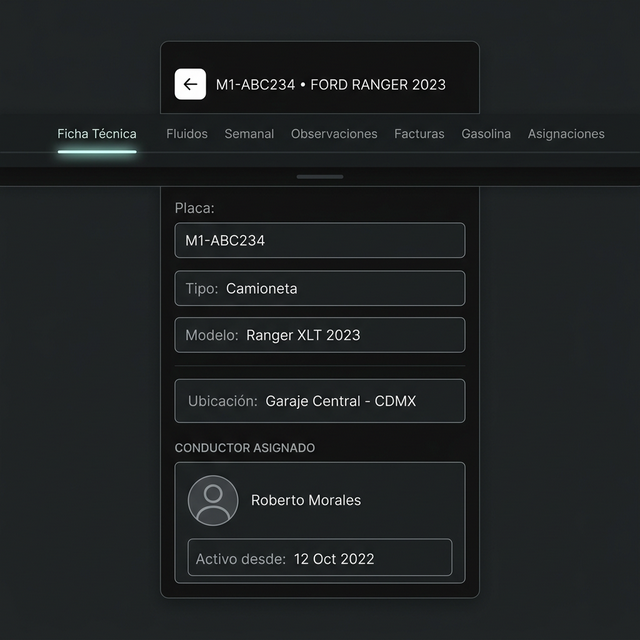
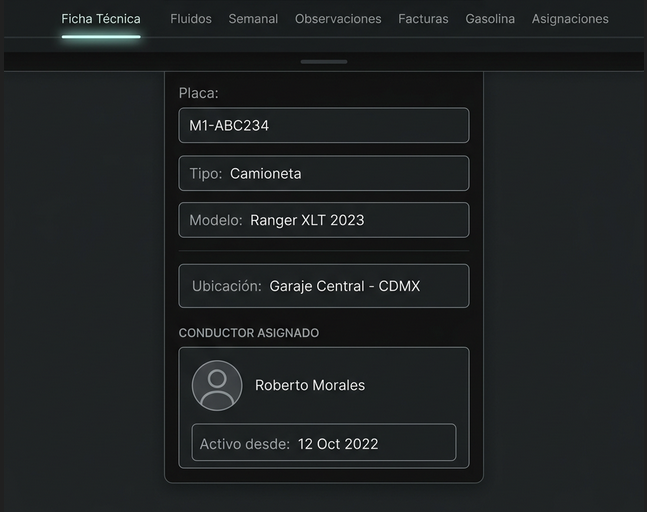
otros fix

diff --git a/src/components/DiagramModal.jsx b/src/components/DiagramModal.jsx
@@ -1,0 +1,191 @@
+import { useEffect, useRef, useState, useCallback } from 'react';
+
+/**
+ * DiagramModal — full-screen overlay with viewBox-based zoom (crisp SVG quality)
+ * and body-scroll lock.
+ *
+ * Props:
+ *   content  – raw SVG outerHTML string (null = hidden)
+ *   onClose  – callback
+ */
+function DiagramModal({ content, onClose }) {
+  const containerRef = useRef(null);
+  const svgRef       = useRef(null);        // the actual <svg> element in the modal
+  const vbInit       = useRef(null);        // original viewBox { x, y, w, h }
+  const vbCur        = useRef(null);        // current   viewBox { x, y, w, h }
+  const dragging     = useRef(false);
+  const lastPx       = useRef({ x: 0, y: 0 }); // last mouse position in pixels
+
+  // ── Lock / unlock body scroll ──────────────────────────────────────────────
+  useEffect(() => {
+    if (content) {
+      document.body.style.overflow = 'hidden';
+    }
+    return () => {
+      document.body.style.overflow = '';
+    };
+  }, [content]);
+
+  // ── ESC to close ───────────────────────────────────────────────────────────
+  useEffect(() => {
+    if (!content) return;
+    const handler = (e) => { if (e.key === 'Escape') onClose(); };
+    window.addEventListener('keydown', handler);
+    return () => window.removeEventListener('keydown', handler);
+  }, [content, onClose]);
+
+  // ── Initialise viewBox when content changes ────────────────────────────────
+  useEffect(() => {
+    if (!content) return;
+    // Give the DOM a tick to render the injected SVG
+    requestAnimationFrame(() => {
+      const svg = containerRef.current?.querySelector('svg');
+      if (!svg) return;
+      svgRef.current = svg;
+
+      // Ensure the SVG fills its container and keeps aspect ratio
+      svg.setAttribute('width',  '100%');
+      svg.setAttribute('height', '100%');
+      svg.style.display = 'block';
+
+      // If there's no viewBox, create one from its rendered size
+      if (!svg.getAttribute('viewBox')) {
+        const bb = svg.getBoundingClientRect();
+        svg.setAttribute('viewBox', `0 0 ${bb.width} ${bb.height}`);
+      }
+
+      const vb = svg.viewBox.baseVal;
+      const box = { x: vb.x, y: vb.y, w: vb.width, h: vb.height };
+      vbInit.current = { ...box };
+      vbCur.current  = { ...box };
+    });
+  }, [content]);
+
+  // ── Helpers ────────────────────────────────────────────────────────────────
+  const applyViewBox = () => {
+    const { x, y, w, h } = vbCur.current;
+    svgRef.current?.setAttribute('viewBox', `${x} ${y} ${w} ${h}`);
+  };
+
+  const zoom = useCallback((factor, cx, cy) => {
+    if (!vbCur.current) return;
+    const vb = vbCur.current;
+
+    // Pivot around (cx, cy) which are SVG-coordinate ratios [0..1]
+    const pivotX = vb.x + (cx ?? 0.5) * vb.w;
+    const pivotY = vb.y + (cy ?? 0.5) * vb.h;
+
+    const newW = Math.min(vbInit.current.w * 5, Math.max(vbInit.current.w * 0.1, vb.w * factor));
+    const newH = Math.min(vbInit.current.h * 5, Math.max(vbInit.current.h * 0.1, vb.h * factor));
+
+    vbCur.current = {
+      x: pivotX - (pivotX - vb.x) * (newW / vb.w),
+      y: pivotY - (pivotY - vb.y) * (newH / vb.h),
+      w: newW,
+      h: newH,
+    };
+    applyViewBox();
+  }, []);
+
+  const resetView = useCallback(() => {
+    if (!vbInit.current) return;
+    vbCur.current = { ...vbInit.current };
+    applyViewBox();
+  }, []);
+
+  // ── Mouse-wheel zoom ───────────────────────────────────────────────────────
+  const onWheel = (e) => {
+    e.preventDefault();
+    const rect   = e.currentTarget.getBoundingClientRect();
+    const cx     = (e.clientX - rect.left) / rect.width;
+    const cy     = (e.clientY - rect.top)  / rect.height;
+    const factor = e.deltaY > 0 ? 1.12 : 0.893; // zoom out / in
+    zoom(factor, cx, cy);
+  };
+
+  // ── Drag-to-pan ────────────────────────────────────────────────────────────
+  const onMouseDown = (e) => {
+    if (e.button !== 0) return;
+    dragging.current = true;
+    lastPx.current   = { x: e.clientX, y: e.clientY };
+    e.currentTarget.style.cursor = 'grabbing';
+  };
+
+  const onMouseMove = (e) => {
+    if (!dragging.current || !vbCur.current) return;
+    const rect   = e.currentTarget.getBoundingClientRect();
+    const dx     = (e.clientX - lastPx.current.x) / rect.width  * vbCur.current.w;
+    const dy     = (e.clientY - lastPx.current.y) / rect.height * vbCur.current.h;
+    lastPx.current = { x: e.clientX, y: e.clientY };
+    vbCur.current.x -= dx;
+    vbCur.current.y -= dy;
+    applyViewBox();
+  };
+
+  const stopDrag = (e) => {
+    dragging.current = false;
+    if (e.currentTarget) e.currentTarget.style.cursor = 'grab';
+  };
+
+  if (!content) return null;
+
+  return (
+    <div
+      className="fixed inset-0 z-[100] flex items-center justify-center bg-slate-950/95 backdrop-blur-sm"
+      onClick={onClose}
+    >
+      {/* Controls */}
+      <div
+        className="absolute top-4 right-4 z-10 flex items-center gap-2"
+        onClick={(e) => e.stopPropagation()}
+      >
+        <button
+          onClick={() => zoom(0.8)}
+          className="flex h-9 w-9 items-center justify-center rounded-lg bg-slate-800 text-slate-200 hover:bg-violet-700 hover:text-white transition-colors text-xl font-bold"
+          title="Acercar"
+        >+</button>
+        <button
+          onClick={() => zoom(1.25)}
+          className="flex h-9 w-9 items-center justify-center rounded-lg bg-slate-800 text-slate-200 hover:bg-violet-700 hover:text-white transition-colors text-xl font-bold"
+          title="Alejar"
+        >−</button>
+        <button
+          onClick={resetView}
+          className="flex h-9 px-3 items-center gap-1 rounded-lg bg-slate-800 text-xs text-slate-200 hover:bg-slate-700 hover:text-white transition-colors font-medium"
+          title="Restablecer"
+        >
+          <svg xmlns="http://www.w3.org/2000/svg" viewBox="0 0 20 20" fill="currentColor" className="h-3.5 w-3.5">
+            <path fillRule="evenodd" d="M15.312 11.424a5.5 5.5 0 01-9.201 2.466l-.312-.311h2.433a.75.75 0 000-1.5H5.498a.75.75 0 00-.75.75v3.498a.75.75 0 001.5 0v-1.473l.313.315a7 7 0 0011.713-3.138.75.75 0 00-1.449-.39zm1.23-3.723a.75.75 0 00.219-.53V3.198a.75.75 0 00-1.5 0v1.474l-.313-.316a7 7 0 00-11.713 3.14.75.75 0 001.449.39A5.5 5.5 0 0114.7 4.6l.313.31h-2.432a.75.75 0 000 1.5h3.498a.75.75 0 00.53-.219z" clipRule="evenodd" />
+          </svg>
+          Reset
+        </button>
+        <button
+          onClick={onClose}
+          className="flex h-9 w-9 items-center justify-center rounded-lg bg-violet-700 text-white hover:bg-violet-500 transition-colors text-base font-bold"
+          title="Cerrar (ESC)"
+        >✕</button>
+      </div>
+
+      {/* Hint text */}
+      <p className="absolute bottom-4 left-1/2 -translate-x-1/2 text-xs text-slate-500 pointer-events-none select-none">
+        Rueda del ratón · Arrastra para mover · ESC para cerrar
+      </p>
+
+      {/* SVG canvas */}
+      <div
+        ref={containerRef}
+        className="w-[90vw] h-[85vh] overflow-hidden select-none"
+        style={{ cursor: 'grab' }}
+        onWheel={onWheel}
+        onMouseDown={onMouseDown}
+        onMouseMove={onMouseMove}
+        onMouseUp={stopDrag}
+        onMouseLeave={stopDrag}
+        onClick={(e) => e.stopPropagation()}
+        dangerouslySetInnerHTML={{ __html: content }}
+      />
+    </div>
+  );
+}
+
+export default DiagramModal;

diff --git a/src/pages/PostDetail.jsx b/src/pages/PostDetail.jsx
@@ -1,6 +1,7 @@
-import { useEffect } from 'react';
+import { useEffect, useState, useRef, useCallback } from 'react';
 import { useParams, Link, useNavigate } from 'react-router-dom';
 import posts from '../data/posts';
+import DiagramModal from '../components/DiagramModal';
 
 function formatDate(dateStr) {
   const date = new Date(dateStr + 'T00:00:00');
@@ -12,16 +13,63 @@ function formatDate(dateStr) {
 }
 
 function PostDetail() {
-  const { slug } = useParams();
-  const navigate = useNavigate();
-  const post = posts.find((p) => p.slug === slug);
+  const { slug }    = useParams();
+  const navigate    = useNavigate();
+  const post        = posts.find((p) => p.slug === slug);
+
+  const [modalSvg, setModalSvg] = useState(null);
+  const closeModal = useCallback(() => setModalSvg(null), []);
+
+  // ─── Use a ref for the article so React NEVER touches its innerHTML
+  //     after initial mount. This prevents mermaid SVGs from being wiped
+  //     when modalSvg state changes cause a re-render.
+  const articleRef = useRef(null);
+  const initialized = useRef(false);
 
   useEffect(() => {
-    if (post && window.mermaid) {
-      window.mermaid.run();
-    }
+    if (!post || !articleRef.current) return;
+    if (initialized.current) return; // already set up — don't re-run
+    initialized.current = true;
+
+    // 1. Inject HTML content
+    articleRef.current.innerHTML = post.content;
+
+    // 2. Render Mermaid diagrams
+    const runMermaid = () => {
+      if (window.mermaid) {
+        window.mermaid.run({ nodes: articleRef.current.querySelectorAll('.mermaid') });
+      }
+    };
+    runMermaid();
+
+    // 3. After Mermaid finishes (give it ~1s), attach zoom-click handlers
+    setTimeout(() => {
+      articleRef.current?.querySelectorAll('.mermaid').forEach((el) => {
+        if (el.dataset.zoomReady) return;
+        el.dataset.zoomReady = 'true';
+        el.style.cursor = 'zoom-in';
+        el.title = 'Haz clic para ampliar';
+
+        el.addEventListener('click', () => {
+          const svg = el.querySelector('svg');
+          if (!svg) return;
+          const clone = svg.cloneNode(true);
+          // Strip fixed dimensions — viewBox will handle sizing in the modal
+          clone.removeAttribute('width');
+          clone.removeAttribute('height');
+          clone.style.cssText = 'width:100%;height:100%;display:block;';
+          setModalSvg(clone.outerHTML);
+        });
+      });
+    }, 1200);
   }, [post]);
 
+  // Reset init flag when slug changes so a new post re-initialises
+  useEffect(() => {
+    initialized.current = false;
+  }, [slug]);
+
+  // ─── 404 state ────────────────────────────────────────────────────────────
   if (!post) {
     return (
       <main className="flex flex-col items-center justify-center gap-6 py-32 text-center px-6 animate-fade-in">
@@ -38,11 +86,11 @@ function PostDetail() {
     );
   }
 
+  // ─── Post ─────────────────────────────────────────────────────────────────
   return (
     <main className="animate-fade-in py-12">
-      {/* Content container */}
       <div className="mx-auto max-w-3xl px-6 pb-20">
-        {/* Meta Header */}
+        {/* Meta header */}
         <div className="mb-8 animate-slide-up">
           <div className="flex items-center gap-3 mb-4">
             <span className="inline-block rounded-full bg-violet-600/20 px-3 py-1 text-xs font-semibold uppercase tracking-widest text-violet-400 border border-violet-600/30">
@@ -50,7 +98,6 @@ function PostDetail() {
             </span>
             <time className="text-sm text-slate-500">{formatDate(post.date)}</time>
           </div>
-          
           <h1 className="mb-6 text-3xl font-extrabold leading-tight text-white sm:text-4xl lg:text-5xl">
             {post.title}
           </h1>
@@ -59,11 +106,8 @@ function PostDetail() {
         {/* Divider */}
         <div className="mb-10 h-px w-full bg-gradient-to-r from-violet-600/40 via-slate-700/40 to-transparent" />
 
-        {/* Body */}
-        <article
-          className="prose-blog"
-          dangerouslySetInnerHTML={{ __html: post.content }}
-        />
+        {/* Body — ref-controlled, React never touches innerHTML here */}
+        <article ref={articleRef} className="prose-blog" />
 
         {/* Back button */}
         <div className="mt-14 border-t border-slate-800/50 pt-8">
@@ -87,6 +131,9 @@ function PostDetail() {
           </button>
         </div>
       </div>
+
+      {/* Diagram zoom modal — rendered outside content div so it's a true overlay */}
+      <DiagramModal content={modalSvg} onClose={closeModal} />
     </main>
   );
 }

diff --git a/src/data/posts.js b/src/data/posts.js
@@ -230,9 +230,9 @@ const posts = [
             classDef ext fill:#1e293b,stroke:#6366f1,color:#fff,stroke-width:2px
             classDef proc fill:#2e1065,stroke:#a855f7,color:#fff,stroke-width:2px,border-radius:50%
 
-            Cond(["👤 Conductor"]):::ext
-            Admin(["👤 Administrador"]):::ext
-            SCV(["⚙ Sistema\nControl-Vehículos"]):::proc
+            Cond(["Conductor"]):::ext
+            Admin(["Administrador"]):::ext
+            SCV(["Sistema\nControl-Vehículos"]):::proc
 
             Cond -->|"Reportes diarios\nRevisiones semanales\nObservaciones"| SCV
             SCV -->|"Confirmación\nAlertas de revisión"| Cond
@@ -283,26 +283,26 @@ const posts = [
             classDef db fill:#0f172a,stroke:#64748b,color:#cbd5e1
             classDef cloud fill:#0c1a10,stroke:#22c55e,color:#86efac
 
-            subgraph Campo["📍 Nodo Campo (Conductor)"]
+            subgraph Campo["Nodo Campo (Conductor)"]
               direction LR
-              Mov["📱 App Móvil\n(Conductor)"]:::node
+              Mov["App Móvil\n(Conductor)"]:::node
             end
 
-            subgraph Oficina["🏢 Nodo Oficina (Administrador)"]
+            subgraph Oficina["Oficina (Administrador)"]
               direction LR
-              Web["💻 Panel Web\n(Administrador)"]:::node
+              Web["Panel Web\n(Administrador)"]:::node
             end
 
-            subgraph Servidor["☁ Servidor de Aplicación (Laravel)"]
+            subgraph Servidor["Servidor de Aplicación (Laravel)"]
               direction TB
-              API["🔌 API RESTful\n(Laravel Routes)"]:::server
-              Auth["🔐 Auth\n(Sanctum)"]:::server
-              BL["⚙ Business Logic\n(Controllers + Services)"]:::server
+              API["API RESTful\n(Laravel Routes)"]:::server
+              Auth["Auth\n(Sanctum)"]:::server
+              BL["Business Logic\n(Controllers + Services)"]:::server
             end
 
-            subgraph Datos["🗄 Capa de Datos"]
+            subgraph Datos["Capa de Datos"]
               DB[("MySQL\nBase de Datos")]:::db
-              Storage["💾 Storage\n(Imágenes / Videos)"]:::db
+              Storage["Storage\n(Imágenes / Videos)"]:::db
             end
 
             Mov -- "HTTPS / JSON" --> API
